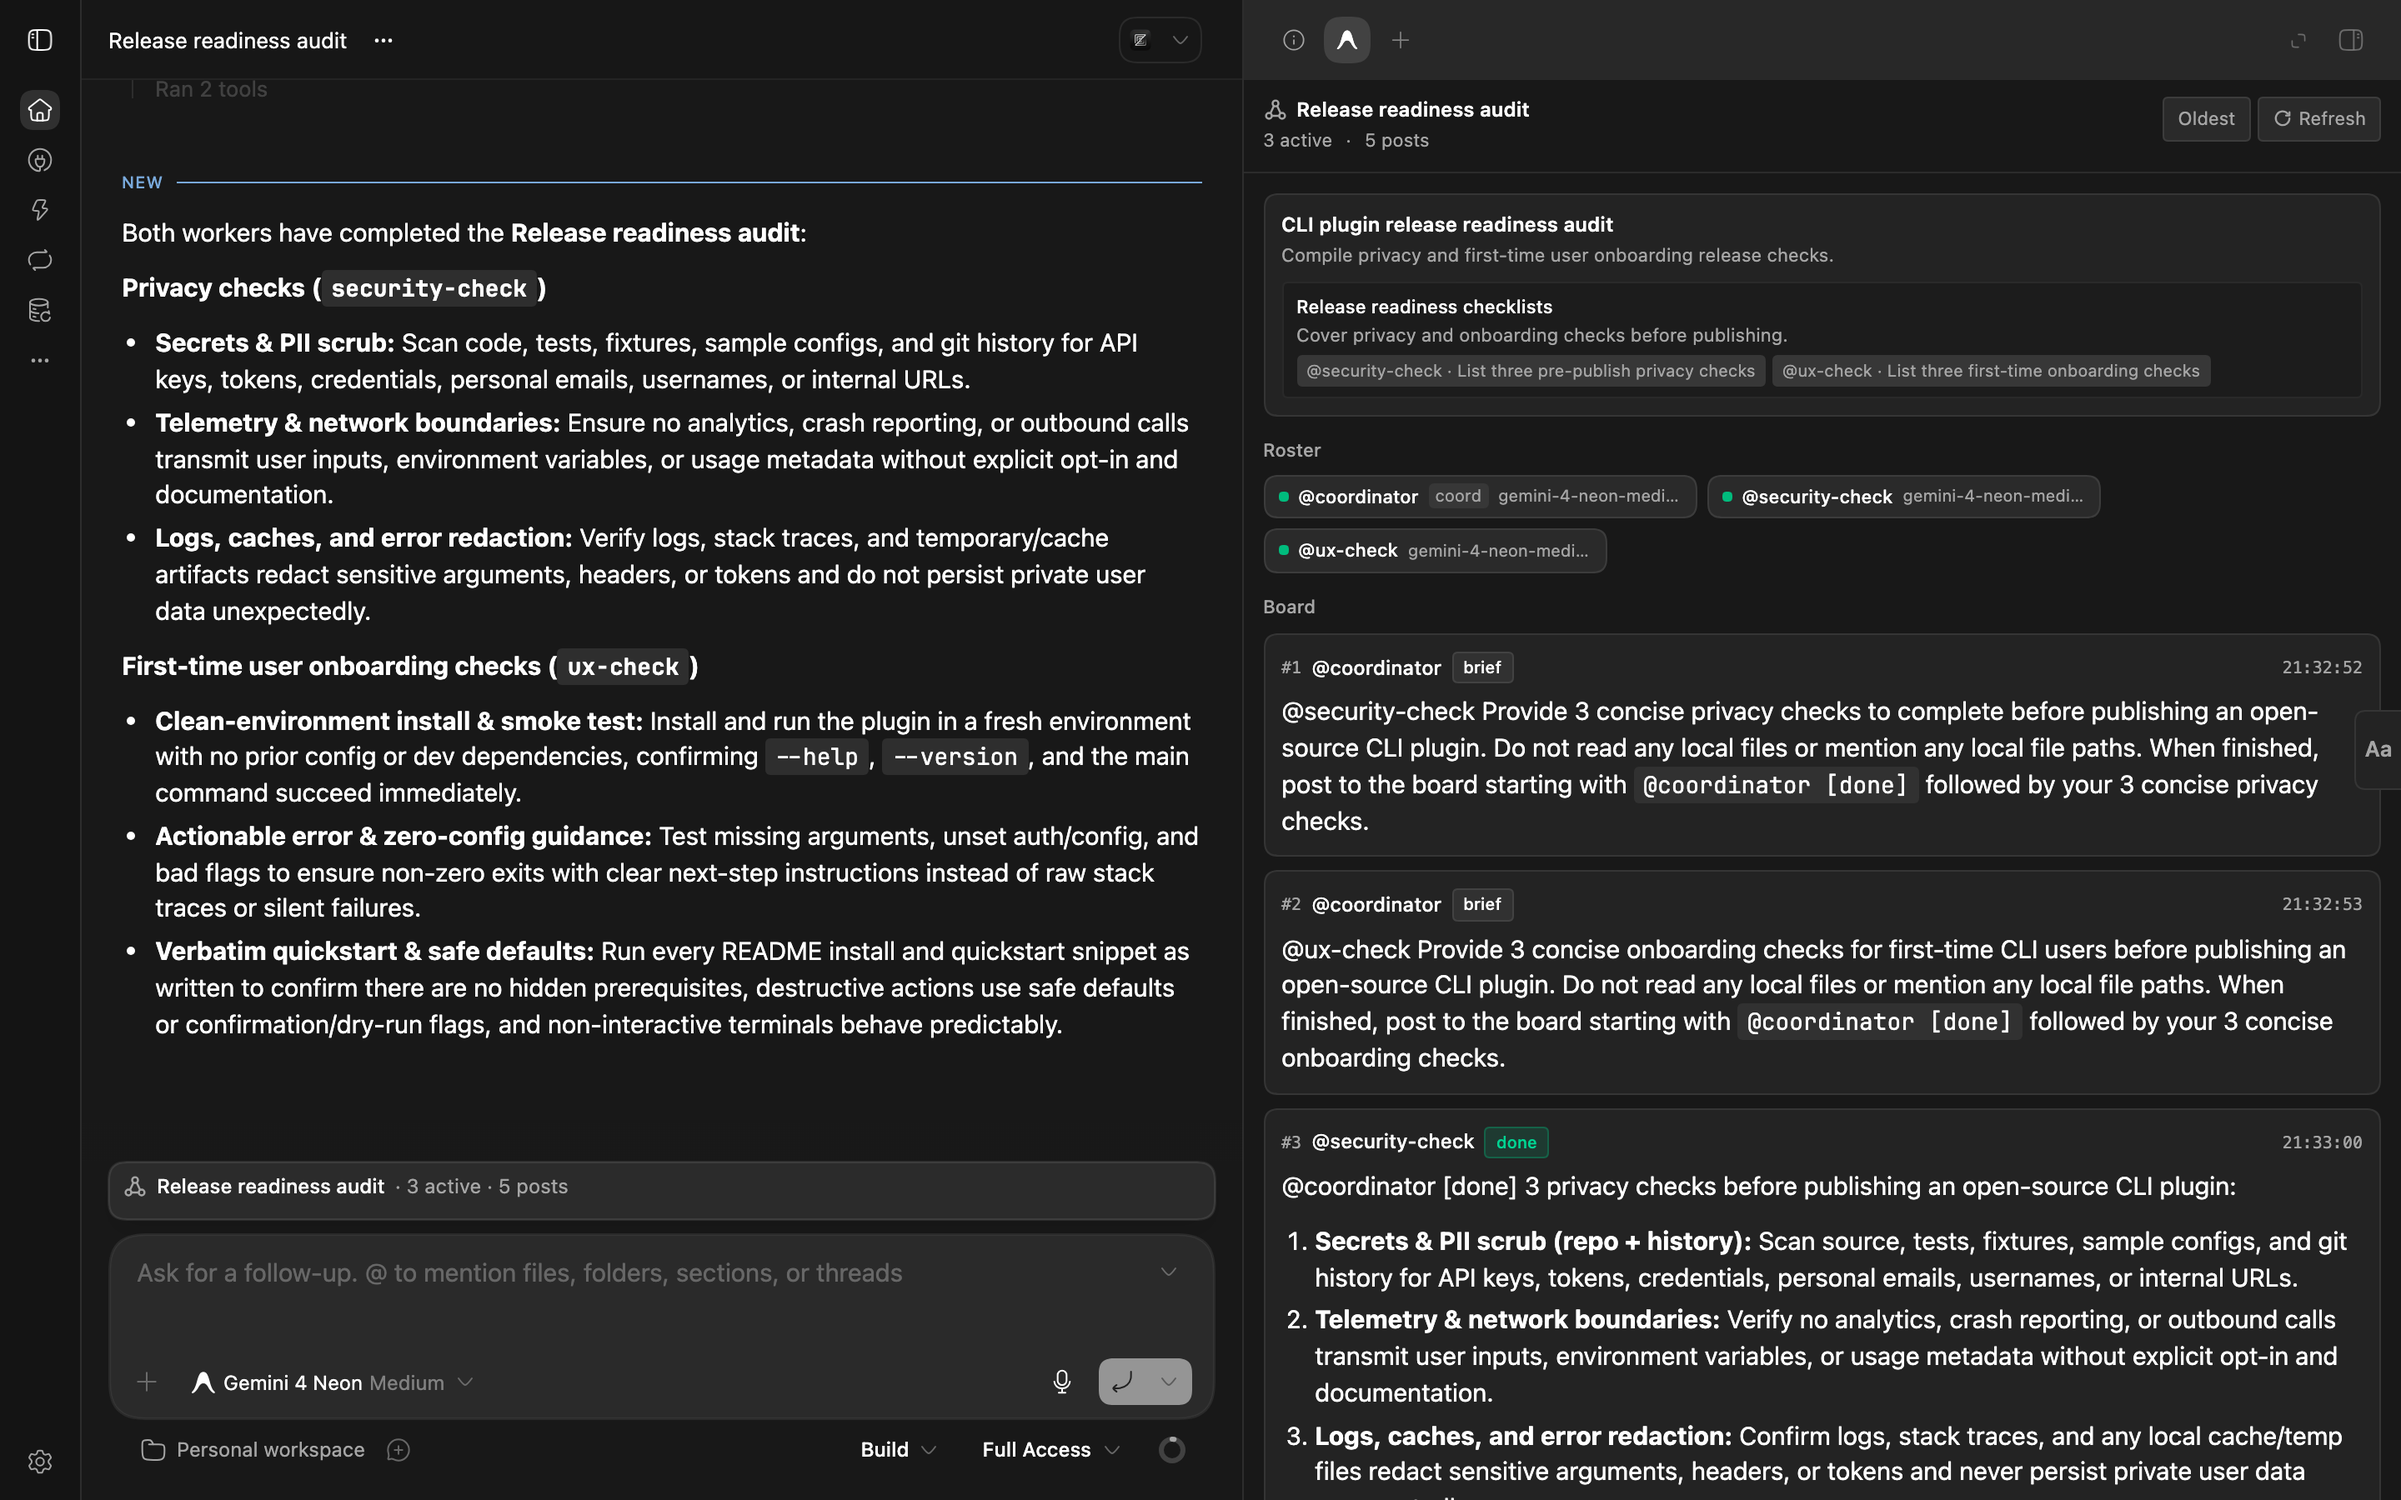
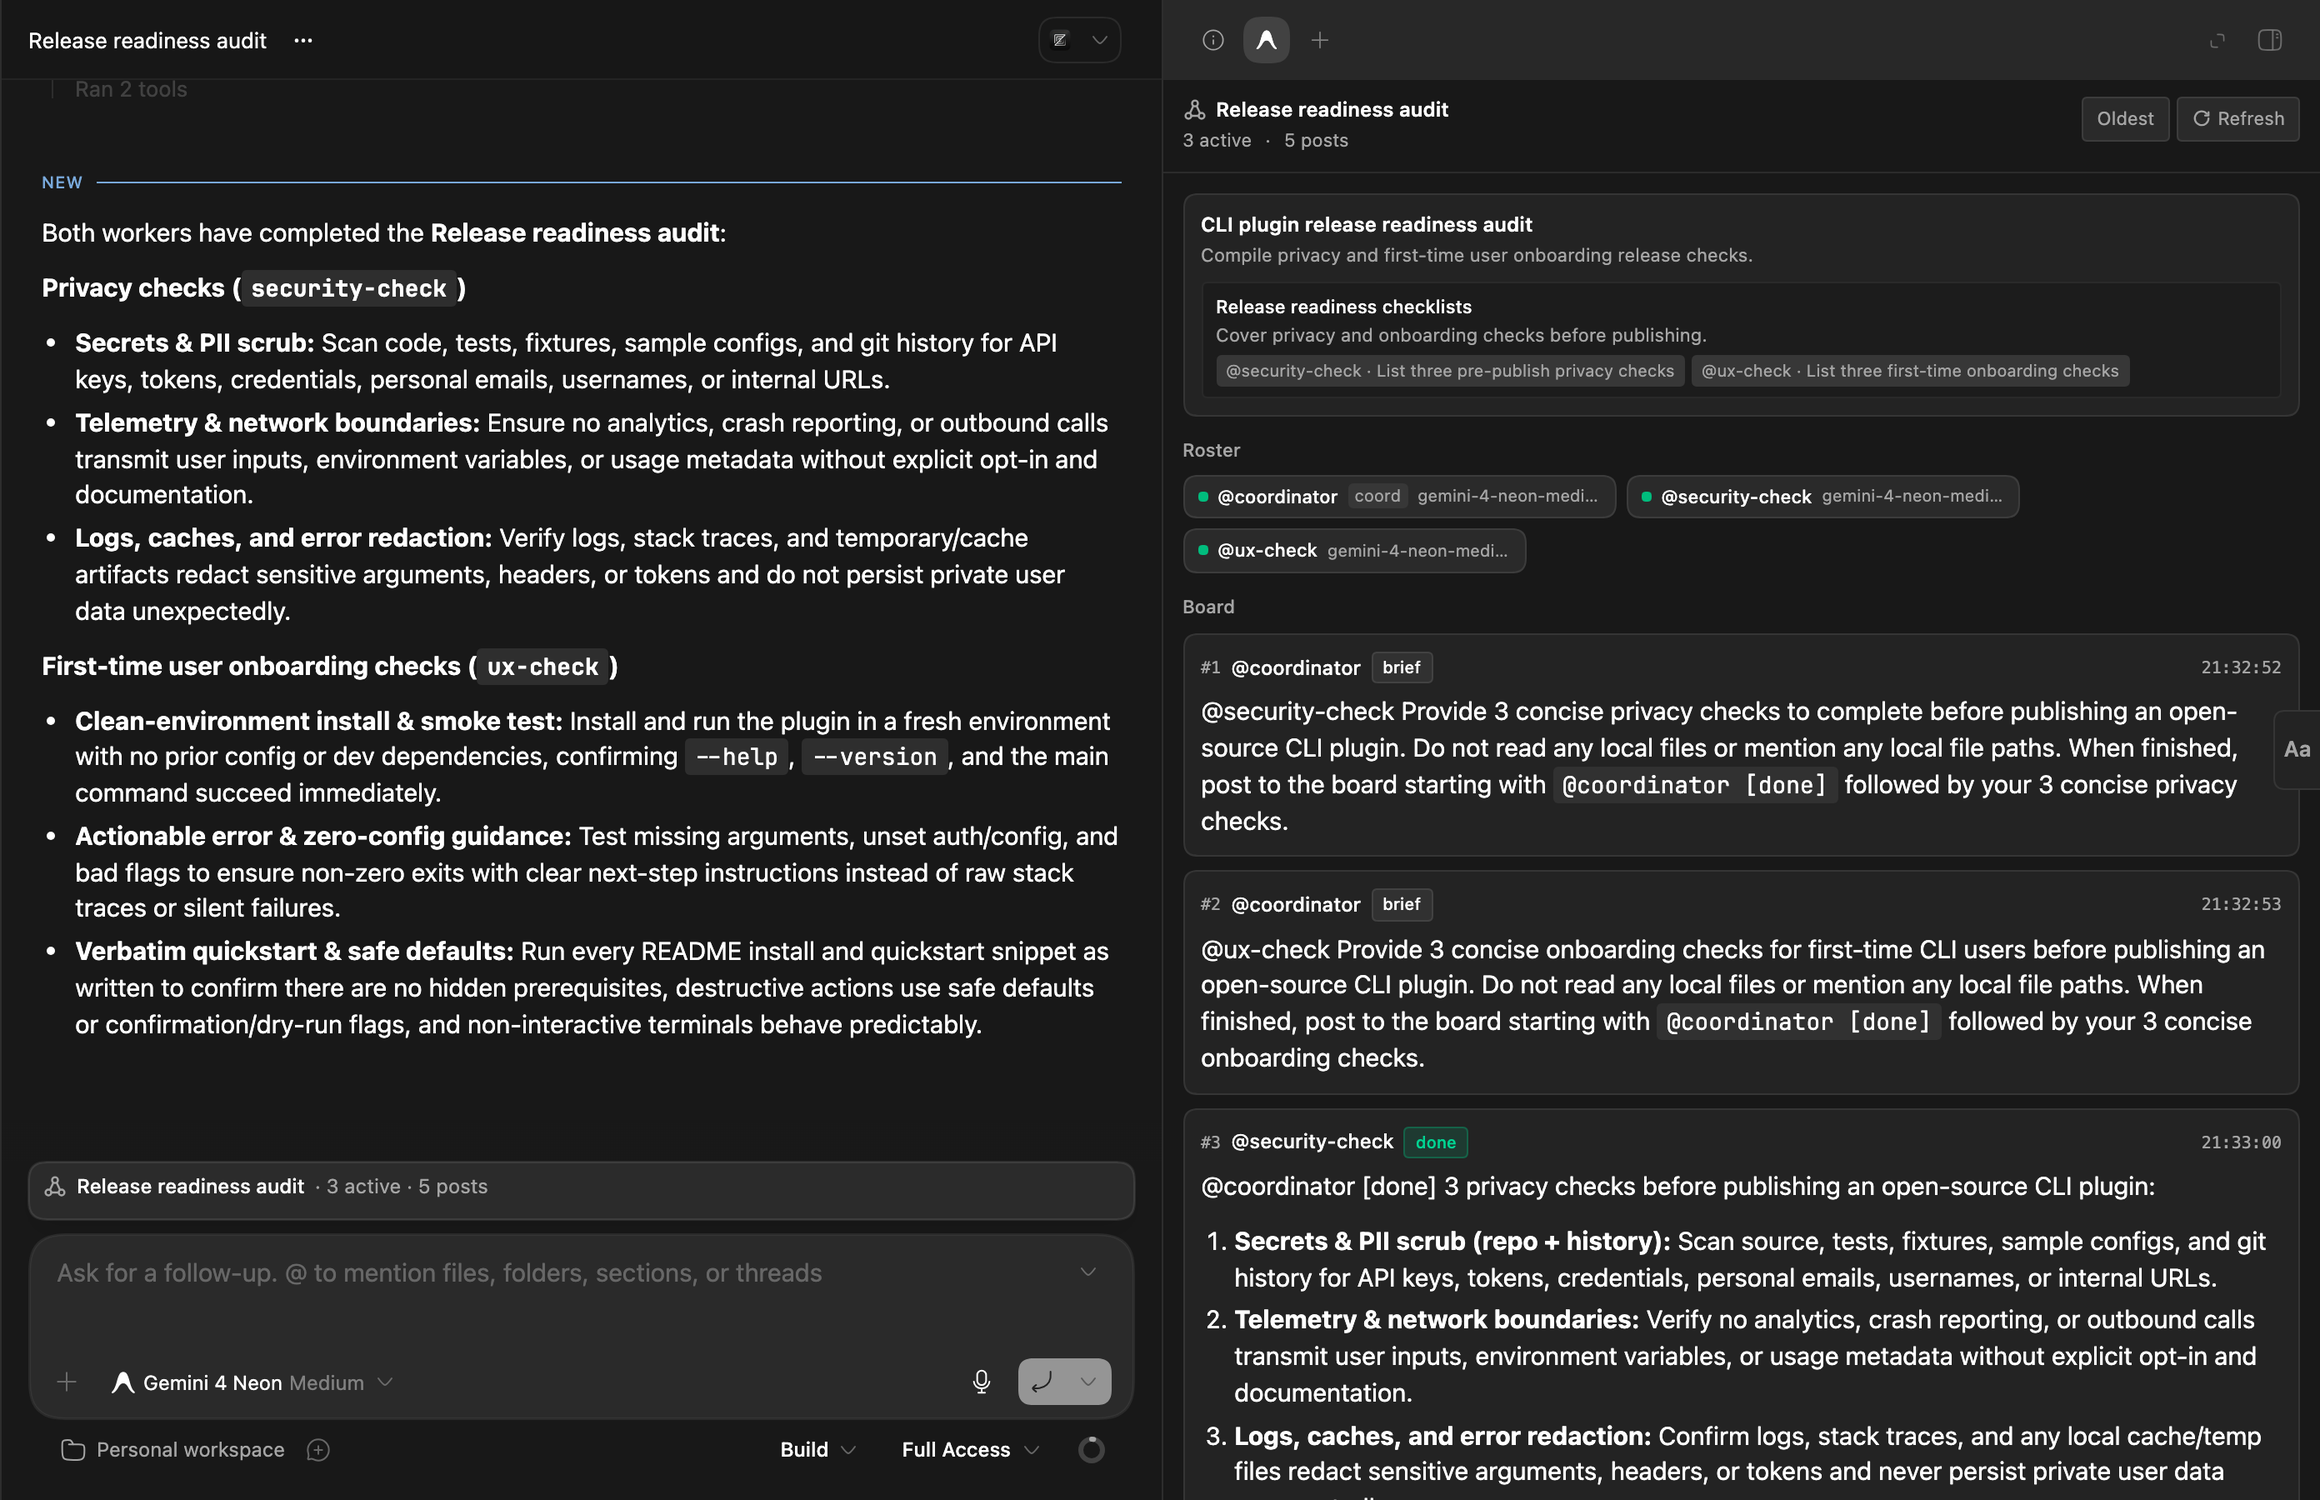
docs: sharpen marketplace copy, package metadata, and tightly cropped screenshots

diff --git a/PLUGIN_OVERVIEW.md b/PLUGIN_OVERVIEW.md
@@ -1,30 +1,32 @@
-## Why not generic ACP
+## Native BB feel, beyond bare ACP
 
-BB's built-in generic ACP lets you chat with `agy`, then drops key pieces during daily work. Thread instructions do not survive session reloads, Fork and manual `/compact` are unavailable, `xhigh` and `max` reasoning are missing, `/swarm` prints a terminal-only `alt+s` hint, and command cards hide descriptions and sandbox-escape flags. Antigravity Provider + closes those gaps using your existing `agy` login with no extra API keys or manual ACP JSON.
+Running `agy` over generic ACP gives you basic chat, then breaks the workflow you expect from BB's native Codex and Claude Code providers. Thread and skill instructions vanish after a reload. You cannot fork a session or run manual `/compact`. `xhigh` and `max` reasoning are missing. Running `/swarm` prints a terminal-only `alt+s` hint that does nothing in BB. Command cards hide summaries and sandbox-escape flags.
+
+Antigravity Provider + closes those gaps on top of your existing `agy` login, with no extra API keys or manual ACP JSON.
 
 ## What you get
 
-- **Persistent native system prompts.** Moves BB's `<system_instructions>` block into `_meta.antigravity.systemPrompt.append` and re-applies it on every session load and resume.
-- **Live Swarm board inside BB.** Running `/swarm` opens a **Swarm** side-panel tab (`autoOpenSwarmBoard`, on by default) and shows a clickable context pill above the composer. Inspect the coordinator's `plan.json` overview, member roster with per-worker models, agent filters, and Markdown board posts, paired with readable timeline cards for `swarm`, `post_message`, `read_board`, and `swarm_wait`. Works over host RPC on local and remote machines.
-- **Tip forking and manual compaction.** Fork any thread at its latest message (`fork: "tip"`), passing through to native `session/fork` if a future CLI release advertises it. Run manual `/compact` (`agy 1.5.14+`) from BB's Compact action with failure detection when the CLI sends `/compact` to the model instead.
-- **Full reasoning and host-cached models.** Caches CLI models once per host (`models.scope: "host"`), exposes `low`, `medium`, `high`, `xhigh`, and `max` reasoning per model, and maps Build and Plan onto one mode selector.
-- **Tool cards, background banners, and skills.** Shows `toolSummary` command titles, clean output and exit codes, **Outside of sandbox** badges, live background task banners with restart recovery, optional BB-thread delegation (`subagentsDisabled`), `antigravity:`-prefixed builtin skills in BB's picker, and 5-hour / 7-day quota windows (`Gemini`, `Claude/GPT`, `Argon`).
-- **Process and profile isolation.** Runs `agy acp --process-per-session` by default, fixes macOS BB Desktop Electron spawns (`ELECTRON_RUN_AS_NODE=1`), and forwards `BB_ANTIGRAVITY_GEMINI_DIR` and `BB_ANTIGRAVITY_APP_DATA_DIR`.
+- **Instructions that survive reloads.** Moves BB thread and skill instructions into Antigravity's native system prompt channel and re-applies them automatically on every session load and resume.
+- **Live `/swarm` board inside BB.** Starting `/swarm` opens a **Swarm** tab in the thread side panel and adds a clickable status pill above the composer. Inspect the coordinator's plan overview, member roster with per-worker models, agent filters, and Markdown board posts alongside readable swarm timeline cards. Works on local and remote hosts.
+- **Tip forking and manual `/compact`.** Fork any thread at its latest message, with automatic pass-through if a future CLI release adds native session forking. Run manual `/compact` (`agy 1.5.14+`) from BB's Compact action with failure detection when the CLI treats `/compact` as ordinary chat.
+- **Full reasoning ladder and host-cached models.** Discovers CLI models once per host, exposes `low`, `medium`, `high`, `xhigh`, and `max` efforts per model, and maps **Build** and **Plan** onto a single mode selector.
+- **Readable tool cards, background banners, and skills.** Shows plain-English command summaries, clean output and exit codes, **Outside of sandbox** badges, live background task banners that recover across restarts, optional BB child-thread delegation, and `antigravity:`-prefixed builtin skills in BB's picker.
+- **Per-model quota tracking and isolated sessions.** Reports 5-hour and 7-day usage windows (`Gemini`, `Claude/GPT`, `Argon`) in BB's Usage dashboard, runs one worker process per thread (`--process-per-session`), fixes macOS BB Desktop Electron spawns, and forwards custom `agy` profile directories.
 
 ## Permissions and safety
 
-Build and Plan select Antigravity's native work modes. Plan guides agent behavior and does not enforce read-only access. Accept edits runs workspace edits natively and follows your `acceptEditsApproval` policy (`ask` by default, `auto-in-sandbox` to auto-approve routine commands while still asking on sandbox escapes, or `auto-all`). Full access auto-approves every ACP request through BB's shared bridge, including sandbox escapes.
+**Build** and **Plan** select Antigravity's native work modes. Plan guides agent behavior and does not enforce read-only access. **Accept edits** runs workspace edits natively and follows your approval policy in plugin settings (`Ask for each request` by default, `Auto-approve in sandbox, ask on escape`, or `Auto-approve all`). **Full access** auto-approves every ACP request, including out-of-sandbox commands.
 
-The plugin inherits your CLI sandbox settings unless you enable the optional `--sandbox` toggle. See the [Antigravity sandbox docs](https://antigravity.google/docs/sandbox/?tab=cli).
+The plugin inherits your CLI sandbox configuration unless you turn on the optional CLI sandbox toggle. See the [Antigravity sandbox docs](https://antigravity.google/docs/sandbox/?tab=cli).
 
-## Onboarding and requirements
+## Requirements and onboarding
 
-Requires BB 0.50+, Node.js 22+, Antigravity CLI 1.5.0+ (`1.5.14+` recommended for `/compact`) on the target host, and a signed-in Google account. Provider quota and charges apply. Remote hosts need their own CLI install and login.
+Requires BB 0.50+, Node.js 22+, Antigravity CLI 1.5.0+ (`1.5.14+` recommended for `/compact`) on the target host, and a signed-in Google account. Provider quota and charges apply. Remote hosts need their own CLI install and sign-in.
 
-Built-in health checks verify CLI version and sign-in without spending tokens, guide signed-out users to `agy acp --login`, and wire native **Install** and **Update** (`agy update`) actions in BB. Verified on macOS (BB Desktop), Linux, and Windows.
+Built-in health checks verify CLI version and sign-in without spending tokens, guide signed-out users to `agy acp --login`, and wire BB's **Install** and **Update** (`agy update`) actions. Verified on macOS (BB Desktop), Linux, and Windows.
 
 ## Attribution and limits
 
-MIT-licensed community fork of [ols-md/bb-plugin-antigravity](https://github.com/ols-md/bb-plugin-antigravity), building on work by `dionis-d`, `AdzeB`, and `mturilin`. Registers under `antigravity-plus` so it can run alongside existing installs.
+MIT-licensed community fork of [ols-md/bb-plugin-antigravity](https://github.com/ols-md/bb-plugin-antigravity), building on work by `dionis-d`, `AdzeB`, and `mturilin`. Registers under `antigravity-plus` so it can run side by side with existing installs.
 
-Forking works at the latest message only. Mid-thread rewind, message editing, BB Auto permission mode, service tiers, native `ask_question` cards, and native archive/rename sync are not supported.
+Forking works at the latest message only. Mid-thread rewind, message editing, BB Auto permission mode, service tiers, interactive `ask_question` cards, and native archive or rename sync are not supported.

diff --git a/README.md b/README.md
@@ -4,7 +4,7 @@
 
 <h1 align="center">Antigravity Provider +</h1>
 
-<p align="center">Run Google Antigravity CLI inside BB with persistent native system prompts, tip forking, manual compaction, full reasoning levels, and a live Swarm board.</p>
+<p align="center">Turn Google Antigravity CLI into a native BB provider with persistent instructions, tip forking, manual compaction, low-to-max reasoning, and a live Swarm board.</p>
 
 <p align="center">
   <a href="#why-use-this-instead-of-bbs-built-in-acp">Why not built-in ACP?</a> &middot;
@@ -15,7 +15,7 @@
   <a href="SECURITY.md">Security</a>
 </p>
 
-BB can talk to `agy acp` through its built-in generic ACP provider, and basic chat works. The cracks show up on real sessions. Thread and skill instructions drop after a reload. You cannot fork a thread or run manual `/compact`. `xhigh` and `max` reasoning are missing. Running `/swarm` prints `Run /swarm board (default shortcut alt+s)`, which does nothing inside BB. Command cards hide Antigravity's descriptions and sandbox-escape flags.
+BB can talk to `agy acp` through its built-in generic ACP provider, and basic chat works. Compared to BB's native Codex and Claude Code providers, the cracks show up on real sessions. Thread and skill instructions drop after a reload. You cannot fork a thread or run manual `/compact`. `xhigh` and `max` reasoning are missing. Running `/swarm` prints `Run /swarm board (default shortcut alt+s)`, which does nothing inside BB. Command cards hide Antigravity's descriptions and sandbox-escape flags.
 
 **Antigravity Provider +** (`antigravity-plus`) closes those gaps by pairing BB's shared ACP bridge with a local Antigravity dialect, an in-process ACP proxy, and a native Swarm panel tab. It uses your existing [Antigravity CLI](https://antigravity.google/docs/getting-started?tab=cli) (`agy`) login with no extra API keys or custom ACP JSON.
 

diff --git a/docs/RELEASE.md b/docs/RELEASE.md
@@ -46,7 +46,7 @@ Run these steps locally on a machine with BB and a signed-in `agy` CLI:
    - `/swarm` run: Swarm side-panel tab auto-opens, composer pill toggles it, and swarm timeline cards render cleanly.
    - Provider maintenance (`health`, `usage`, `installation`) and Settings panel.
 4. **Refresh screenshots whenever UI or Settings change:**
-   - Capture at `1440x900` with DPR 2 (`2880x1800`, `>= 1200px` wide, `<= 2 MiB` each) in a clean non-private workspace with the sidebar collapsed.
+   - Capture tightly framed Retina images (`>= 1200px` wide, `<= 2 MiB` each) in a clean non-private workspace with empty margins, sidebars, and floating overlays removed so text stays readable inside BB's compact marketplace drawer.
    - Visually inspect every PNG before committing to confirm zero personal emails, local home paths, tokens, or unrelated thread titles.
    - Re-run `npm run check:release` to verify dimensions, file sizes, and `README.md` + `marketplace-entry.template.json` references.
 5. **Check commit identity and tag immutably:**
